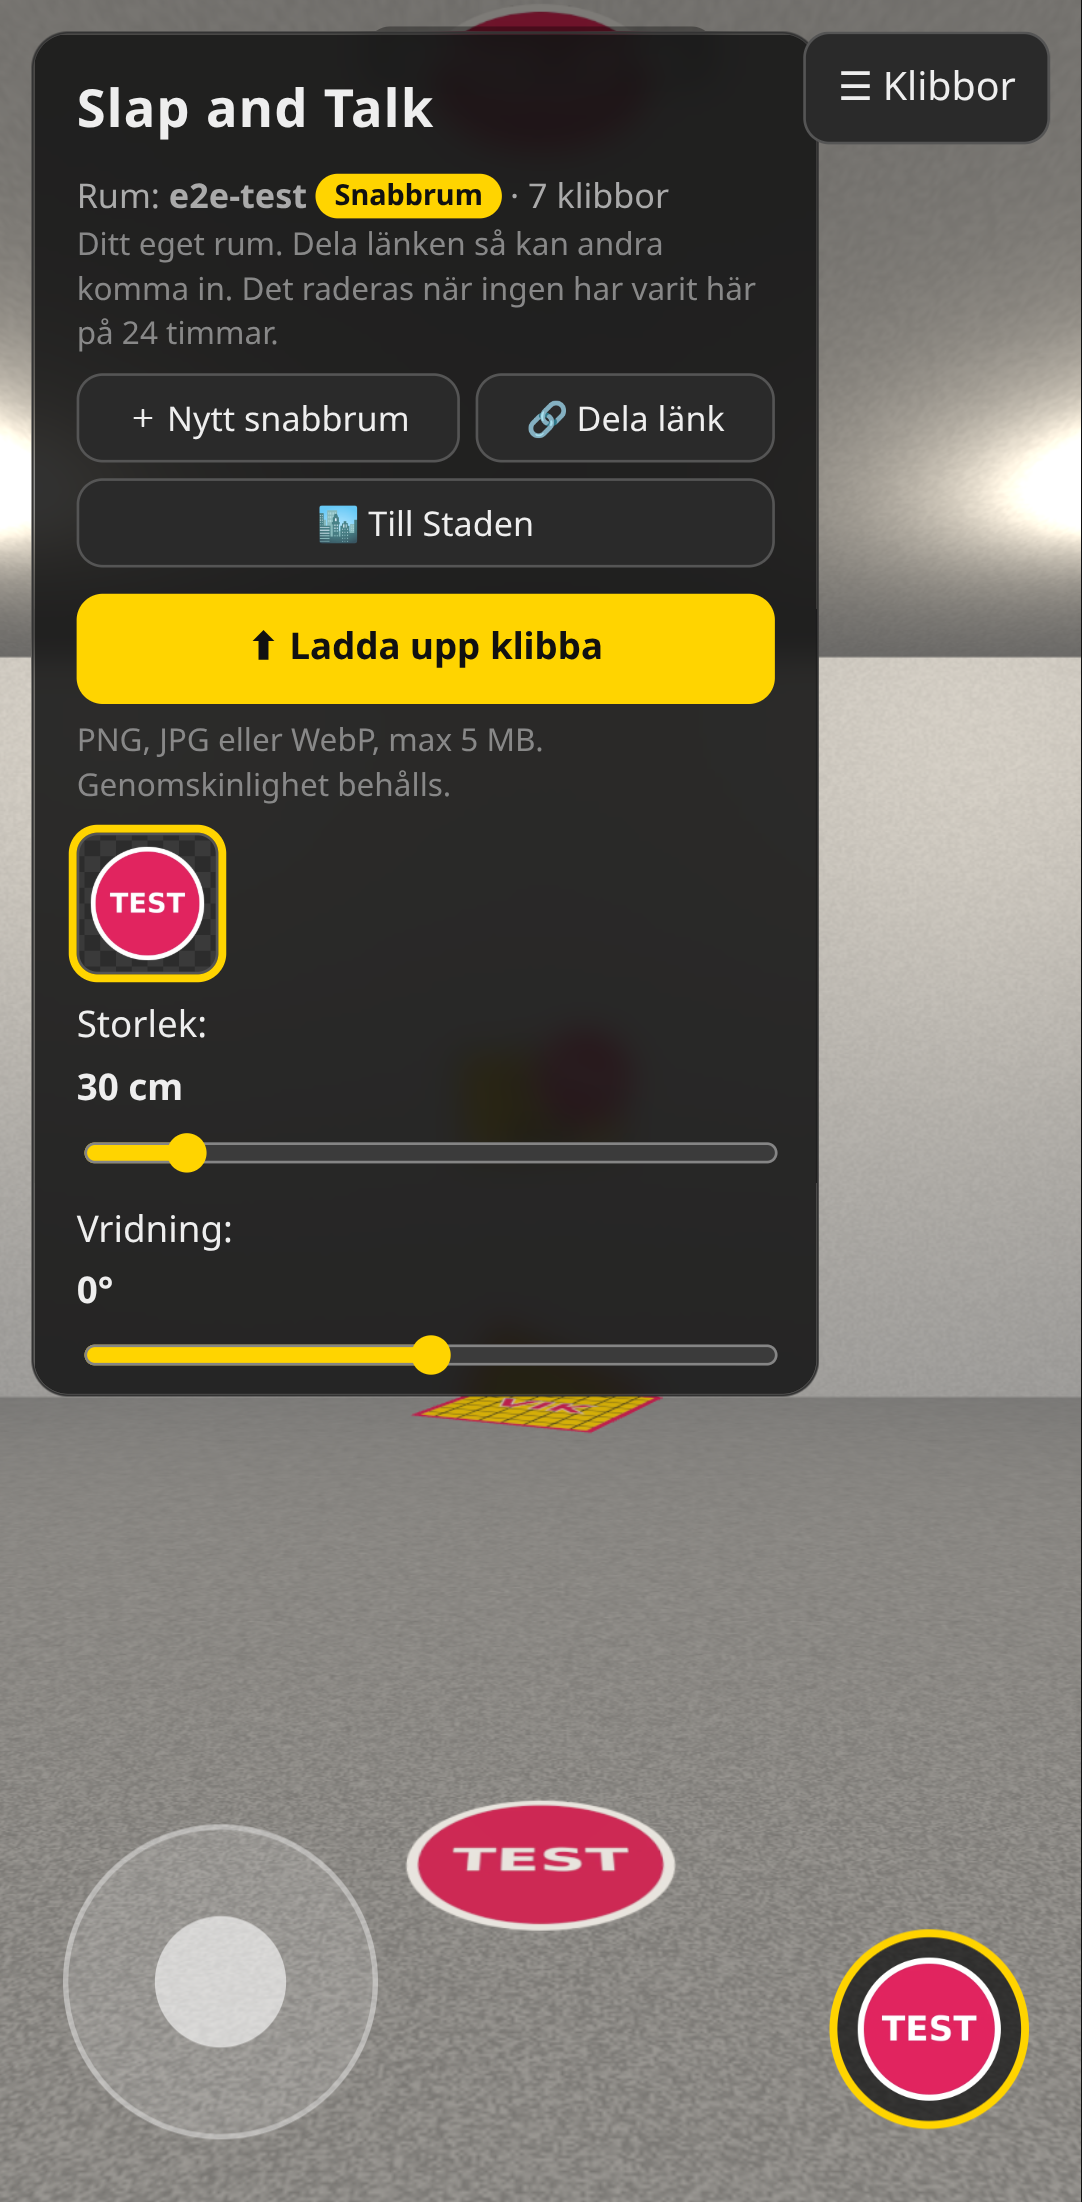
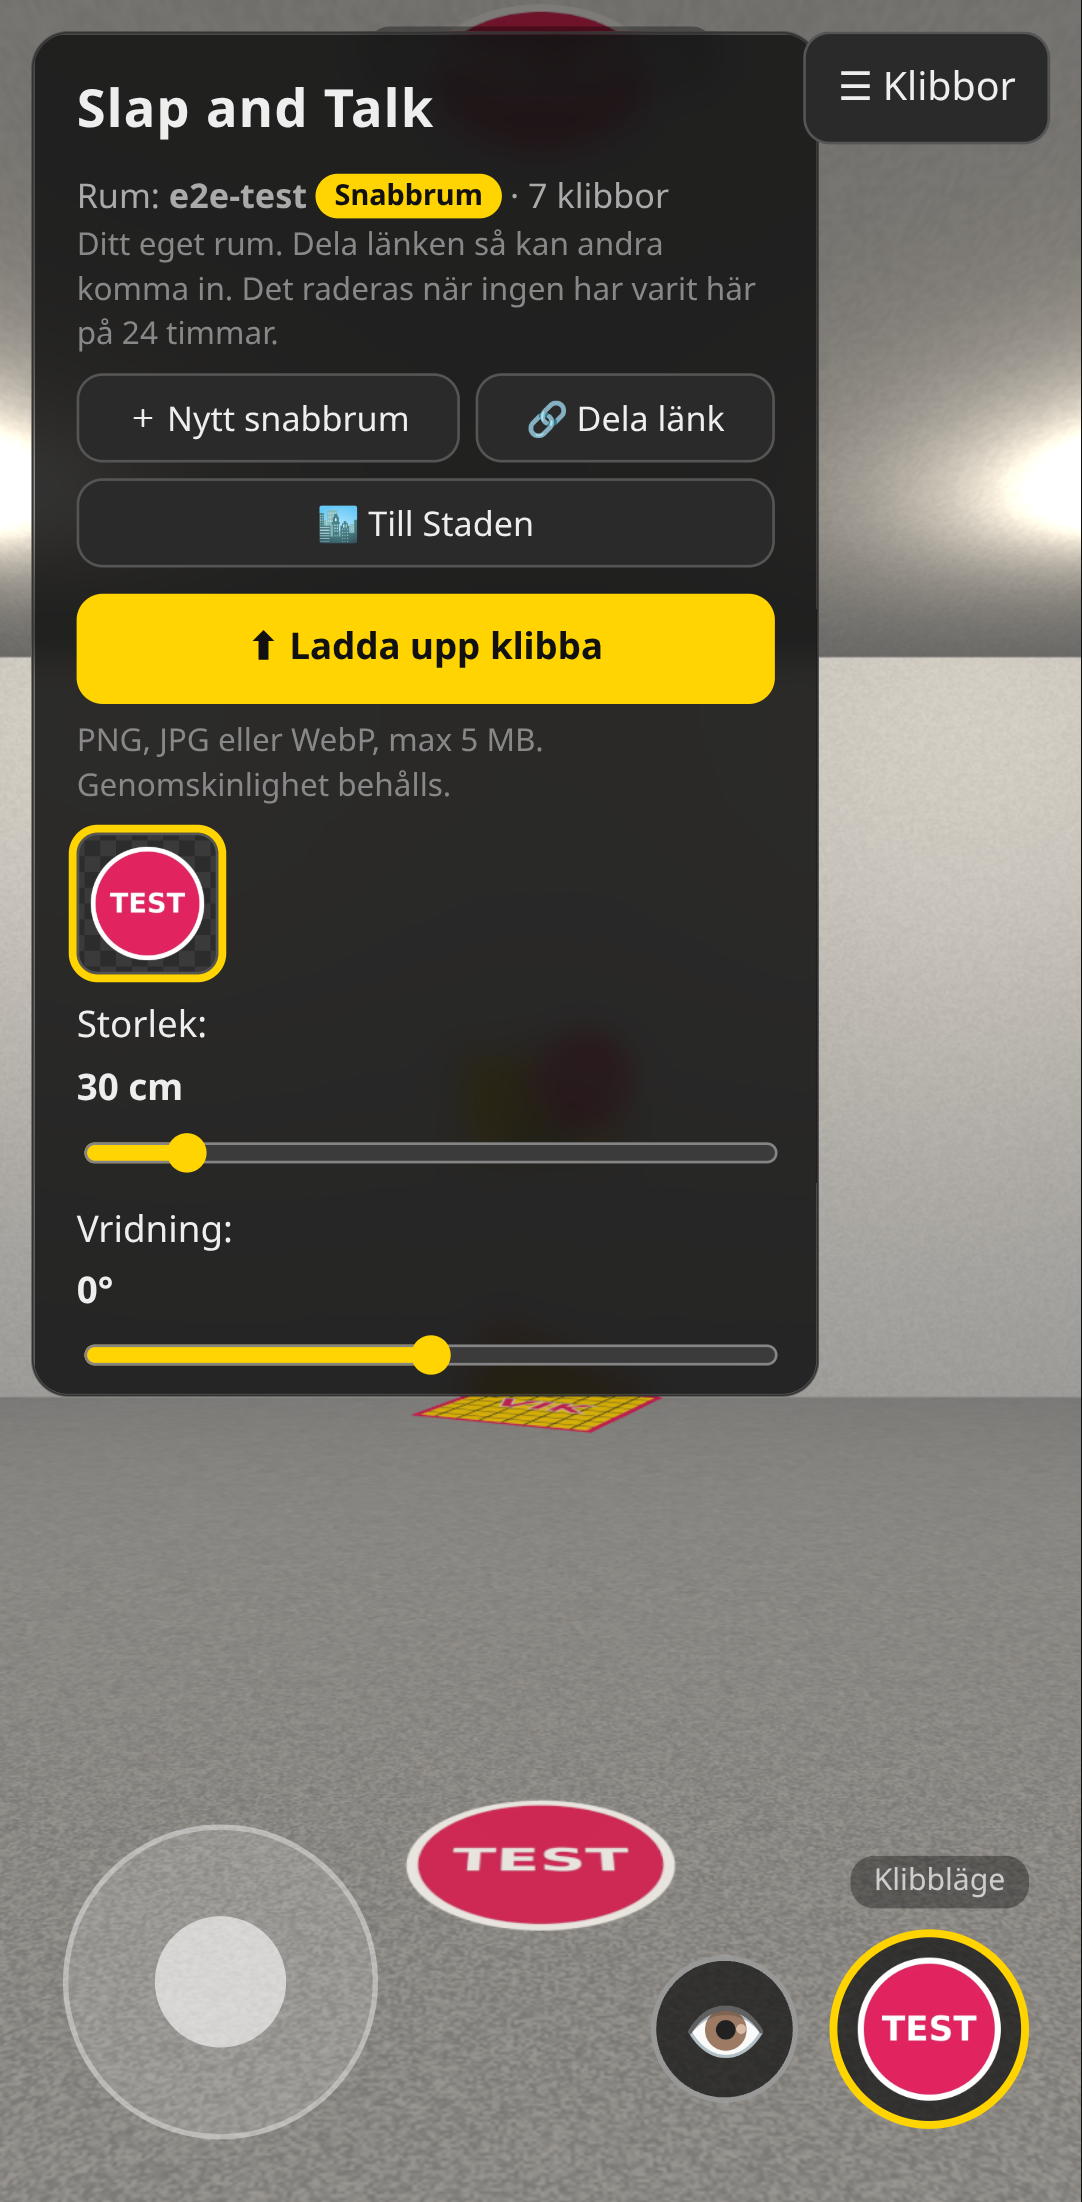
Klibbläge och Tittläge: V (eller 👁 på mobilen) döljer pekaren och siktet så man kan beundra väggen, klick stämplar inte då; lägesetikett i bild; V reagerar inte när man skriver; hjälp, README och tester

Changed region(s): [[0.61, 0.8647, 0.732, 0.9573], [0.793, 0.8338, 0.9455, 0.8647]]

diff --git a/tests/e2e.js b/tests/e2e.js
@@ -325,6 +325,19 @@ const waitReady = (page) => page.waitForFunction(() => window.klibb && window.kl
     const s2 = await sel();
     assert(s1[0] !== s0[0] && s2[0] === s0[0] && s1[1] === '2/2', 'mobil: tryck på designknappen byter design och börjar om');
     assert((await m.evaluate(() => window.klibb.stamps.count)) === mBefore + 1, 'mobil: knappen stämplar inte av misstag');
+    // Mobil: ögat växlar Tittläge, tryck stämplar inte då
+    assert(await m.isVisible('#mode-btn'), 'mobil: ögonknappen syns');
+    await m.tap('#mode-btn'); await m.waitForTimeout(200);
+    const mv = await m.evaluate(() => [window.klibb.state.mode, getComputedStyle(document.getElementById('design-btn')).opacity, window.klibb.stamps.count]);
+    await m.touchscreen.tap(vp.width * 0.4, vp.height * 0.3); await m.waitForTimeout(700);
+    const mvc = await m.evaluate(() => window.klibb.stamps.count);
+    assert(mv[0] === 'view' && Number(mv[1]) < 0.6 && mvc === mv[2], 'mobil: 👁 ger Tittläge, designknappen dämpas och tryck stämplar inte');
+    await m.waitForFunction(() => !document.getElementById('toast').classList.contains('show'), null, { timeout: 5000 });
+    await m.screenshot({ path: path.join(SHOTS, '14-tittlage-mobil.png') });
+    await m.tap('#mode-btn'); await m.waitForTimeout(200);
+    await m.touchscreen.tap(vp.width * 0.4, vp.height * 0.3);
+    await m.waitForFunction((n) => window.klibb.stamps.count === n + 1, mvc, { timeout: 5000 });
+    assert((await m.evaluate(() => window.klibb.state.mode)) === 'slap', 'mobil: 👁 igen ger Klibbläge och tryck stämplar');
     await m.waitForTimeout(300);
     await m.screenshot({ path: path.join(SHOTS, '06-mobil-rum.png') });
     await m.tap('#design-btn'); await m.waitForTimeout(300);
@@ -413,6 +426,44 @@ const waitReady = (page) => page.waitForFunction(() => window.klibb && window.kl
     await d.evaluate((id) => { const k = window.klibb; k.state.selected = k.state.mine.find((m) => m.id === id); const p = k.stampAt(0, 0); k.nextDesign(); return p; }, two[0]);
     await d.waitForTimeout(500);
     assert((await mineIds()).join() === five.join(), 'ett 410-svar för en design tar inte bort någon annan design');
+
+    // ---------- Klibbläge / Tittläge (V) ----------
+    const modeInfo = () => d.evaluate(() => ({ mode: window.klibb.state.mode, hud: document.getElementById('mode-hud').textContent,
+      preview: window.klibb.preview.mesh.visible, count: window.klibb.stamps.count, size: window.klibb.state.size,
+      rot: window.klibb.state.rotation, sel: window.klibb.state.selected && window.klibb.state.selected.id, locked: window.klibb.controls.locked }));
+    await d.evaluate(() => { window.klibb.moveTo(1, 0); window.klibb.look(0, 0.05); });
+    await d.mouse.click(900, 400); // första klicket låser musen (stämplar inte)
+    await d.waitForTimeout(300);
+    const m0 = await modeInfo();
+    assert(m0.locked && m0.mode === 'slap' && m0.hud === 'Klibbläge · V' && m0.preview, 'Klibbläge från början: pekaren syns');
+    await d.keyboard.press('v'); await d.waitForTimeout(200);
+    const m1 = await modeInfo();
+    assert(m1.mode === 'view' && m1.hud === 'Tittläge · V' && !m1.preview, 'V slår på Tittläge och döljer pekaren');
+    await d.mouse.click(900, 400); await d.waitForTimeout(400);
+    await d.mouse.wheel(0, 300); await d.keyboard.press('q'); await d.keyboard.press('e'); await d.keyboard.press('q');
+    await d.waitForTimeout(200);
+    const m2 = await modeInfo();
+    assert(m2.count === m1.count && m2.size === m1.size && m2.rot === m1.rot && !m2.preview, 'Tittläge: klick stämplar inte, scroll och Q/E ändrar inget');
+    await d.keyboard.press('r'); await d.waitForTimeout(200);
+    const m3 = await modeInfo();
+    assert(m3.sel !== m2.sel && m3.mode === 'view' && !m3.preview, 'R byter design men man stannar i Tittläge');
+    await d.evaluate(() => { window.klibb.moveTo(0, 2.5); window.klibb.look(0.15, 0.05); });
+    await d.waitForFunction(() => !document.getElementById('toast').classList.contains('show'), null, { timeout: 5000 });
+    await d.waitForTimeout(300);
+    await d.screenshot({ path: path.join(SHOTS, '13-tittlage-dator.png') });
+    await d.keyboard.press('v'); await d.waitForTimeout(200);
+    await d.mouse.click(900, 400);
+    await d.waitForFunction((n) => window.klibb.stamps.count === n + 1, m3.count, { timeout: 5000 });
+    const m4 = await modeInfo();
+    assert(m4.mode === 'slap' && m4.preview && m4.count === m3.count + 1, 'V igen: Klibbläge, pekaren syns och klick stämplar igen');
+    await d.evaluate(() => window.klibb.controls.unlock()); // som Esc
+    await d.waitForFunction(() => !window.klibb.controls.locked);
+    await d.fill('#artist', ''); await d.type('#artist', 'Viva');
+    const typed = await d.evaluate(() => [window.klibb.state.mode, document.getElementById('artist').value]);
+    assert(typed[0] === 'slap' && typed[1] === 'Viva', 'V gör ingenting medan man skriver i ett textfält');
+    await d.keyboard.press('Control+v'); // klistra in: ska inte heller växla
+    assert((await d.evaluate(() => window.klibb.state.mode)) === 'slap', 'Ctrl+V växlar inte läge');
+    await d.fill('#artist', 'Testaren');
     await dctx.close();
   } finally {
     // Städa: ta bort testbilderna (och därmed alla teststämplar) via admin-API:t

diff --git a/client/src/main.js b/client/src/main.js
@@ -2,7 +2,7 @@
 // rummet (room.js), styrningen (controls.js), stämplarna (stamps.js) och servern (api.js).
 import * as THREE from 'three';
 import { buildBoxRoom } from './room.js';
-import { FirstPersonControls } from './controls.js';
+import { FirstPersonControls, isTyping } from './controls.js';
 import { StampLayer, StampPreview } from './stamps.js';
 import { api } from './api.js';
 import { foldStamp } from './fold.js';
@@ -47,6 +47,7 @@ const state = {
   selected: null, // vald bild { id, url, width, height }
   mine: readMine(),
   size: 0.3, rotation: 0, jitter: false,
+  mode: 'slap', // 'slap' = Klibbläge (pekaren syns, klick stämplar), 'view' = Tittläge (bara titta)
   artist: localStorage.getItem('klibb.artist') || '',
   adminToken: '',
 };
@@ -286,7 +287,31 @@ function adminPick(ndc) {
   dlg.showModal();
 }
 
-function action(ndc) { return state.adminToken ? adminPick(ndc) : stampAt(ndc); }
+function action(ndc) {
+  if (state.mode === 'view') return null; // Tittläge: klick och tryck gör ingenting
+  return state.adminToken ? adminPick(ndc) : stampAt(ndc);
+}
+
+// ---------- Klibbläge / Tittläge (V, eller ögat på mobilen) ----------
+// Tittläge: ingen pekare och inget sikte, klick stämplar inte, scroll och Q/E gör ingenting.
+// R byter fortfarande design (man stannar i Tittläge), så man kan förbereda nästa klibba.
+function setMode(mode, { quiet = false } = {}) {
+  state.mode = mode === 'view' ? 'view' : 'slap';
+  const view = state.mode === 'view';
+  document.body.classList.toggle('view-mode', view);
+  if (view) preview.hide();
+  $('mode-hud').textContent = (view ? 'Tittläge' : 'Klibbläge') + (isTouch ? '' : ' · V');
+  $('mode-btn').setAttribute('aria-pressed', String(view));
+  $('mode-btn').title = view ? 'Tillbaka till klibbläge' : 'Tittläge: dölj pekaren och titta';
+  if (!quiet) {
+    toast(view ? (isTouch ? 'Tittläge: titta i lugn och ro. Tryck på 👁 för att klibba igen.' : 'Tittläge: titta i lugn och ro. V = klibba igen.')
+      : (isTouch ? 'Klibbläge: tryck där du vill stämpla.' : 'Klibbläge: klicka för att stämpla.'), 1600);
+  }
+  return state.mode;
+}
+const toggleMode = () => setMode(state.mode === 'view' ? 'slap' : 'view');
+setMode('slap', { quiet: true });
+$('mode-btn').onclick = (e) => { e.preventDefault(); toggleMode(); };
 
 // ---------- Inmatning ----------
 const CENTER = new THREE.Vector2(0, 0);
@@ -302,11 +327,12 @@ if (!isTouch) {
     if (e.button !== 0) return;
     if (!controls.locked) controls.lock(); else action(CENTER);
   });
-  addEventListener('wheel', (e) => { if (controls.locked) setSize(state.size * 100 * (e.deltaY > 0 ? 0.9 : 1.1)); }, { passive: true });
+  addEventListener('wheel', (e) => { if (controls.locked && state.mode === 'slap') setSize(state.size * 100 * (e.deltaY > 0 ? 0.9 : 1.1)); }, { passive: true });
   addEventListener('keydown', (e) => {
-    if (e.target.closest('input')) return;
-    if (e.code === 'KeyQ') setRot(state.rotation - 15);
-    if (e.code === 'KeyE') setRot(state.rotation + 15);
+    if (isTyping(e) || e.ctrlKey || e.metaKey || e.altKey) return; // inte medan man skriver, inte Ctrl+V
+    if (e.code === 'KeyV' && !e.repeat) toggleMode();
+    if (state.mode === 'slap' && e.code === 'KeyQ') setRot(state.rotation - 15);
+    if (state.mode === 'slap' && e.code === 'KeyE') setRot(state.rotation + 15);
     if (e.code === 'KeyR' && !e.repeat && !e.ctrlKey && !e.metaKey) nextDesign();
   });
 } else {
@@ -392,7 +418,7 @@ const clock = new THREE.Clock();
 function frame() {
   const dt = Math.min(clock.getDelta(), 0.1);
   controls.update(dt);
-  if (controls.locked && state.selected && !state.adminToken) {
+  if (controls.locked && state.selected && !state.adminToken && state.mode === 'slap') {
     const h = hitSurface(CENTER);
     if (h) {
       const [w, hh] = StampLayer.dims(state.selected, state.size);
@@ -426,5 +452,5 @@ window.klibb = {
   look(yaw, pitch) { controls.yaw = yaw; controls.pitch = pitch; controls.apply(); },
   moveTo(x, z) { camera.position.x = x; camera.position.z = z; },
   stampAt: (x = 0, y = 0) => stampAt(new THREE.Vector2(x, y)),
-  nextDesign, designs, validateDesigns,
+  nextDesign, designs, validateDesigns, setMode, toggleMode,
 };

diff --git a/client/index.html b/client/index.html
@@ -50,14 +50,16 @@
     <button id="enter" type="button" class="primary desktop-only">Gå in i rummet</button>
     <div class="help desktop-only">
       <b>Dator:</b> klicka för att gå in. WASD = gå, musen = titta, klick = stämpla,
-      scrollhjul = storlek, Q/E = vrid, R = byt design (växlar mellan dina uppladdade),
+      scrollhjul = storlek, Q/E = vrid, R = byt design (växlar mellan dina uppladdade), V = Tittläge av/på (dölj pekaren
+      och bara titta, klick stämplar inte; V igen = Klibbläge),
       Esc = tillbaka till menyn. <b>Rum:</b> ＋ Nytt snabbrum ger ett eget rum med en kort kod,
       🔗 Dela länk skickar den till kompisar, 🏙 Till Staden tar dig tillbaka.
     </div>
     <div class="help touch-only">
       <b>Mobil:</b> styrspaken nere till vänster = gå, dra med fingret = titta,
       tryck = stämpla. Den runda knappen nere till höger visar vald design: tryck på den
-      för att byta till nästa. Fäll ihop menyn med ☰. <b>Rum:</b> ＋ Nytt snabbrum ger ett eget rum,
+      för att byta till nästa. Ögat 👁 bredvid slår på Tittläge (pekaren döljs och tryck
+      stämplar inte), tryck igen för att klibba. Fäll ihop menyn med ☰. <b>Rum:</b> ＋ Nytt snabbrum ger ett eget rum,
       🔗 Dela länk skickar det till kompisar, 🏙 Till Staden tar dig tillbaka.
     </div>
   </aside>
@@ -67,6 +69,8 @@
   <div id="design-hud" class="desktop-only" hidden>
     <img id="design-hud-img" alt="Vald design" /><span><b id="design-hud-num">1/1</b><br />R: byt design</span>
   </div>
+  <div id="mode-hud" aria-live="polite"></div>
+  <button id="mode-btn" class="touch-only" type="button" aria-label="Tittläge av/på" aria-pressed="false">👁</button>
   <button id="design-btn" class="touch-only" type="button" title="Byt design" aria-label="Byt design" hidden>
     <img id="design-btn-img" alt="" /><span id="design-btn-num"></span>
   </button>

diff --git a/client/src/style.css b/client/src/style.css
@@ -75,3 +75,16 @@ body.touch #design-hud { display: none !important; }
 #room-hud { position: fixed; top: 10px; left: 50%; transform: translateX(-50%); z-index: 3; pointer-events: none;
   font-size: 12px; color: rgba(255,255,255,.75); background: rgba(0,0,0,.35); padding: 3px 10px; border-radius: 10px; white-space: nowrap; }
 #room-hud:empty { display: none; }
+
+/* Klibbläge / Tittläge */
+#mode-hud { position: fixed; left: 50%; bottom: 82px; transform: translateX(-50%); z-index: 4; pointer-events: none;
+  font-size: 11.5px; color: rgba(255,255,255,.7); background: rgba(0,0,0,.35); padding: 2px 9px; border-radius: 9px; }
+body.touch #mode-hud { left: auto; right: 20px; transform: none; bottom: calc(112px + env(safe-area-inset-bottom)); }
+#mode-btn { position: fixed; right: 108px; bottom: calc(38px + env(safe-area-inset-bottom)); width: 56px; height: 56px; padding: 0;
+  border-radius: 50%; font-size: 26px; line-height: 1; background: rgba(20,20,20,.75); border: 2px solid rgba(255,255,255,.5);
+  z-index: 4; touch-action: manipulation; }
+#mode-btn[aria-pressed="true"] { background: #ffd400; border-color: #ffd400; }
+body.view-mode #design-btn { opacity: .45; }
+body.view-mode #design-hud { opacity: .5; }
+/* I Tittläge: bara en liten prick i stället för siktet */
+body.view-mode #crosshair { width: 4px; height: 4px; margin: -2px 0 0 -2px; border: 0; background: rgba(255,255,255,.55); }

diff --git a/client/src/controls.js b/client/src/controls.js
@@ -3,6 +3,15 @@
 // Mobil: styrspak nere till vänster för att gå, dra med fingret för att titta.
 import * as THREE from 'three';
 
+// Skriver man i ett textfält (artistnamn, rumskod …)? Då ska tangenterna inte styra spelet.
+export function isTyping(e) {
+  const t = e.target;
+  if (!t || !t.closest) return false;
+  if (t.closest('textarea, select, [contenteditable=""], [contenteditable="true"]')) return true;
+  const inp = t.closest('input');
+  return !!inp && !['range', 'checkbox', 'radio', 'button', 'file'].includes(inp.type);
+}
+
 export class FirstPersonControls {
   constructor(camera, canvas, bounds) {
     this.camera = camera;
@@ -15,7 +24,7 @@ export class FirstPersonControls {
     this.locked = false;
     this.onLockChange = () => {};
 
-    addEventListener('keydown', (e) => { if (!e.target.closest('input')) this.keys.add(e.code); });
+    addEventListener('keydown', (e) => { if (!isTyping(e)) this.keys.add(e.code); });
     addEventListener('keyup', (e) => this.keys.delete(e.code));
     addEventListener('blur', () => this.keys.clear());
     document.addEventListener('pointerlockchange', () => {

diff --git a/README.md b/README.md
@@ -16,7 +16,15 @@ All kod är öppen källkod under MIT-licensen (se `LICENSE`).
 
 **På datorn:** klicka på *Ladda upp klibba*, välj en bild och klicka på *Gå in i rummet*.
 Gå med **W A S D**, titta med musen och **klicka** för att stämpla. Scrollhjulet ändrar storlek,
-**Q/E** vrider klibban, **R** byter design och **Esc** tar dig tillbaka till menyn.
+**Q/E** vrider klibban, **R** byter design, **V** växlar mellan Klibbläge och Tittläge och
+**Esc** tar dig tillbaka till menyn.
+
+**Klibbläge och Tittläge (V):** du börjar i *Klibbläge*: den genomskinliga pekaren visar var
+klibban hamnar och ett klick stämplar. Tryck **V** för *Tittläge* när du vill kliva tillbaka och
+beundra väggen: pekaren och siktet försvinner (kvar är bara en liten prick), klick stämplar inte
+och scroll/Q/E gör ingenting. Gå och titta som vanligt. **R** byter fortfarande design i Tittläge,
+men du stannar kvar där tills du trycker **V** igen. Längst ner i bild står vilket läge du är i.
+V fungerar inte medan du skriver i ett textfält, och Ctrl+V (klistra in) växlar inte läge.
 
 **Byta design med R:** har du laddat upp flera klibbor växlar **R** till nästa (efter den sista
 börjar det om på den första). Rutan längst ner i mitten visar vilken design som är vald, till
@@ -27,6 +35,8 @@ servern har kvar bilderna. Designs som har försvunnit från servern tas bort ur
 **På mobilen:** ladda upp en bild i menyn och fäll ihop menyn med **☰**. Styrspaken nere till
 vänster tar dig framåt, **dra med fingret** för att titta och **tryck** där du vill stämpla.
 Den **runda knappen nere till höger** visar vald design: tryck på den för att byta till nästa.
+**Ögat 👁** bredvid slår på Tittläge (pekaren försvinner och tryck stämplar inte, designknappen
+dämpas); tryck på ögat igen för att klibba.
 Välj *Lägg till på hemskärmen* i webbläsarens meny, så öppnas den som en app.
 
 **Rum:** i menyn finns **＋ Nytt snabbrum** (skapar ett eget rum med en kort kod, t.ex.
